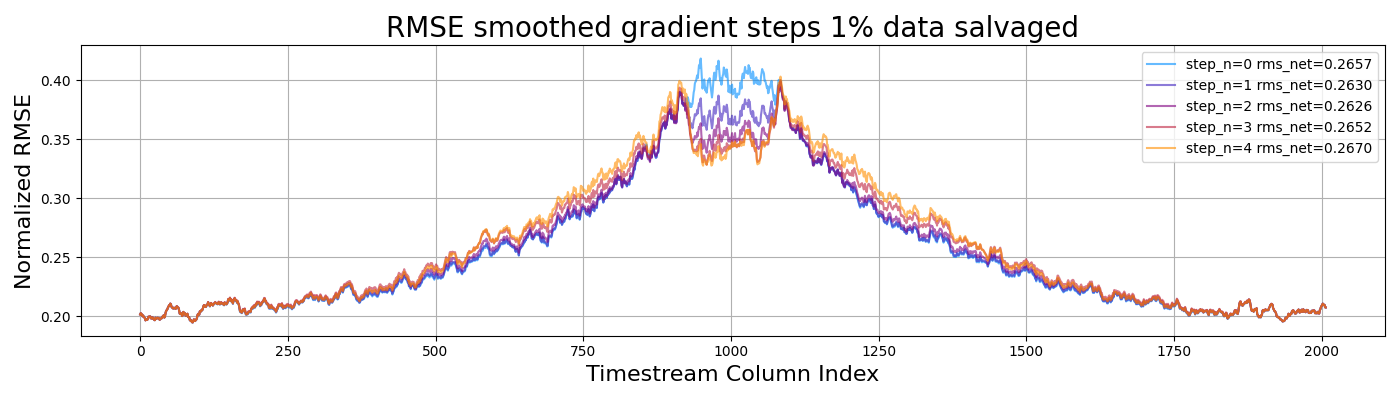
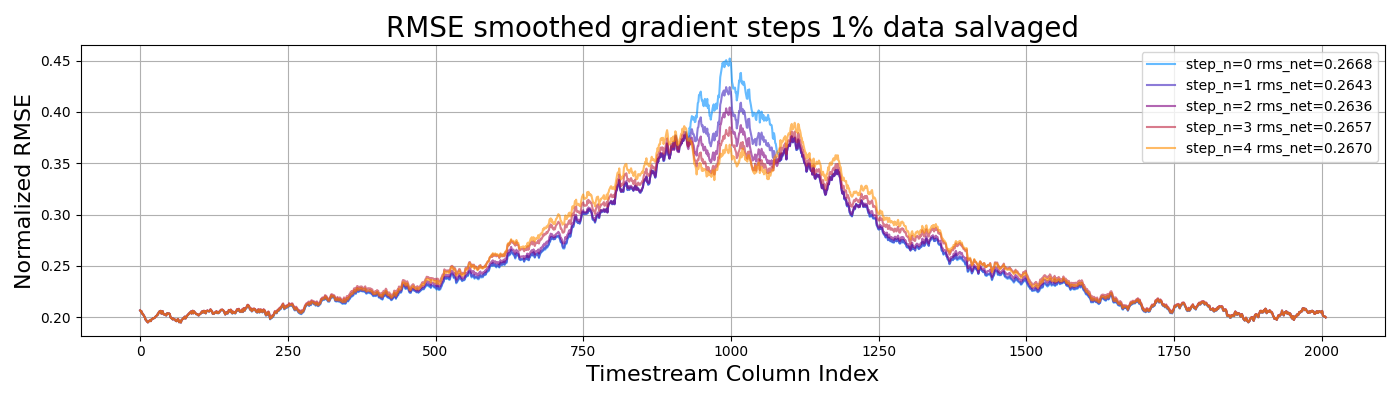
readme and bash script fixed

diff --git a/plots/rmse_wiener_vs_noprior_min_chisq.py b/plots/rmse_wiener_vs_noprior_min_chisq.py
@@ -6,70 +6,11 @@ To see how much a chi-squared minimization improves the Wiener filter
 import sys
 sys.path.append("..")
 import conjugate_gradient as cg
+from matrix_operations import A,A_inv,A_inv_wiener,A_quantize,AT
 import pfb
 import numpy as np
 from numpy.fft import rfft, irfft
 import matplotlib.pyplot as plt
-
-def A(x):
-    """Applies PFB, irfft's that, flatten."""
-    # Forward PFB the Signal
-    b = pfb.forward_pfb(x)
-    # Inverse Fourier Transform along axis=1
-    b = irfft(b)
-    # Apply circulant boundary conditions
-    b = np.concatenate([b, b[:3, :]], axis=0)
-    return b.flatten()
-
-def A_inv(b_flat):
-    """Inverse of A. Reshape the array, rfft, iPFB."""
-    # Sanity check
-    if len(b_flat)/lblock != len(b_flat)//lblock: 
-        raise Exception("Dimensions of input do not match lblock!")
-    # Reshape array so that it looks like irfft'd pfb output dims
-    b = b_flat.reshape((-1,lblock))[:-3,:]
-    # Rfft along axis=1
-    b = rfft(b)
-    return pfb.inverse_pfb(b)
-
-def A_inv_wiener(b_flat, wiener_thresh=0.25):
-    """Inverse of A with wiener filtering. Reshape the array, rfft, iPFB with wiener filter."""
-    # Sanity check
-    if len(b_flat)/lblock != len(b_flat)//lblock: 
-        raise Exception("Dimensions of input do not match lblock!")
-    # Reshape array so that it looks like irfft'd pfb output dims
-    b = b_flat.reshape((-1,lblock))[:-3,:]
-    # Rfft along axis=1
-    b = rfft(b)
-    return pfb.inverse_pfb(b, wiener_thresh=wiener_thresh)
-
-def A_quantize(x, delta):
-    """Takes signal, pfb's it, quantizes, irfft's that."""
-    # Forward PFB the signal
-    b = pfb.forward_pfb(x)
-    # Quantize the filter bank
-    # The sqrt is to account for the next IRFFT step
-    # b = pfb.quantize(b, np.sqrt(2*(b.shape[1] - 1)) * delta) 
-    b = pfb.quantize_8_bit(b, np.sqrt(2*(b.shape[1] - 1)) * delta) 
-    # Inverse Fourier Transform
-    b = irfft(b) # Same as apply along axis=1
-    # Apply circulant boundary conditions
-    b = np.concatenate([b, b[:3, :]], axis=0)
-    return b.flatten() 
-
-def R(x):
-    """Re-ordering matrix (involution)."""
-    lx = len(x)
-    if lx/lblock != lx//lblock: 
-        raise Exception("Len x must divide lblock.")
-    k = lx // lblock
-    out = np.zeros(lx)
-    for i in range(k):
-        out[i*lblock:(i+1)*lblock] = x[(k-i-1)*lblock:(k-i)*lblock]
-    return out
-
-def AT(x): # the transpose of A
-    return R(A(R(x)))
 
 
 """Main"""
@@ -90,54 +31,24 @@ d = A_quantize(x,delta)
 # `N_inv` and `Q_inv` are *diagonal* matrices, so we store them as 1D-arrays 
 N_inv = np.ones(len(x)) * 6 / delta**2 
 
-"""5 percent of original data given as prior."""
-_,saved_idxs_5 = cg.get_saved_idxs(5, 0.05, k, lblock)
-# The noise matrix for the prior. 
-prior_5 = np.zeros(len(x)) # What we know about x, information we salvaged. 
-# The data we save will also be 8-bit quantized. 
-prior_5[saved_idxs_5] = pfb.quantize_real(x[saved_idxs_5].copy() , delta) # Quantized original signal. 
 
-Q_inv_5 = np.ones(len(x)) # this is a prior, change to zeros if you want zero for infinite uncertainty
-Q_inv_5[saved_idxs_5] = np.ones(len(saved_idxs_5)) * (12 / delta**2) # 8 bits per real number (finer std because no complex) 
-
-B_5 = lambda ts: AT(N_inv * A(ts)) + Q_inv_5 * ts # think ts===x
-u_5 = AT(N_inv * d) + Q_inv_5 * prior_5 # this is same as mult prior by var=12/delta^2
-
-
-"""3 percent of original data given as prior."""
-_,saved_idxs_3 = cg.get_saved_idxs(6, 0.03, k, lblock)
-# The noise matrix for the prior. 
-prior_3 = np.zeros(len(x)) # What we know about x, information we salvaged. 
-# The data we save will also be 8-bit quantized. 
-prior_3[saved_idxs_3] = pfb.quantize_real(x[saved_idxs_3].copy() , delta) # Quantized original signal. 
-
-Q_inv_3 = np.ones(len(x)) # this is a prior, change to zeros if you want zero for infinite uncertainty
-Q_inv_3[saved_idxs_3] = np.ones(len(saved_idxs_3)) * (12 / delta**2) # 8 bits per real number (finer std because no complex) 
-
-B_3 = lambda ts: AT(N_inv * A(ts)) + Q_inv_3 * ts # think ts===x
-u_3 = AT(N_inv * d) + Q_inv_3 * prior_3 # this is same as mult prior by var=12/delta^2
-
-"""1 percent of original data given as prior."""
-_,saved_idxs_1 = cg.get_saved_idxs(7, 0.01, k, lblock)
-# the noise matrix for the prior
-prior_1 = np.zeros(len(x)) # what we know about x, information we saved
-prior_1[saved_idxs_1] = pfb.quantize_real(x[saved_idxs_1].copy() , delta) # quantized original signal
-
-Q_inv_1 = np.zeros(len(x)) 
-Q_inv_1[saved_idxs_1] = np.ones(len(saved_idxs_1)) * 12 / delta**2 # 8 bits per real number
-
-B_1 = lambda ts: AT(N_inv * A(ts)) + Q_inv_1 * ts # think ts===x
-u_1 = AT(N_inv * d) + Q_inv_1 * prior_1
+"""Construct the chi-square minimization linear operator"""
+B = lambda ts: AT(N_inv * A(ts)) 
+u = AT(N_inv * d) 
 
 """Optimize CHI squared using conjugate gradient method."""
 # x0 is the standard IPFB reconstruction
 x0 = np.real(A_inv(d))
 x0_wiener = np.real(A_inv_wiener(d, 0.25)) # Weiner threshold 0.25
 
-# print("\n\nd={}".format(d)) # trace, they are indeed real
-# print("\n\nx_0={}".format(x0)) # complex dtype but zero imag componant
+# RMS conj gradient descent, optimal x
+x_opt = cg.conjugate_gradient_descent(B, u, x0=x0_wiener, rmin=0.0, 
+        max_iter=5, k=k, lblock=lblock, verbose=True, x_true=x, 
+        title="RMSE smoothed gradient steps, no data salvaged",
+        saveas="img/RMSE_conjugate_gradient_descent_0percent.png")        
+ 
 
-# print("\nConjugate Gradient Descent, with 3% extra data (prior is a quantized 3% of original timestream)")
+"""Plot and compare result"""
 plt.figure(figsize=(14,4))
 
 # rms virgin pfb
@@ -155,37 +66,24 @@ rms_net_wiener = np.sqrt(np.mean(rms_wiener))
 rms_wiener = np.sqrt(np.mean(rms_wiener,axis=0))
 plt.semilogy(rms_wiener[5:-5],label="rmse wiener filtered",color=colors[1]) 
 
+# rms chisq optimized
+rms_opt = (x - x_opt)**2
+rms_opt = np.reshape(rms_opt[5*lblock:-5*lblock],(k-10,lblock))
+rms_net_opt = np.sqrt(np.mean(rms_opt))
+rms_opt = np.sqrt(np.mean(rms_wiener,axis=0))
+plt.semilogy(rms_opt[5:,-5],label="rmse optimized",color=colors[2])
+
+# Plot params
 plt.grid(which="both") 
 plt.legend()
-#plt.title("Log IPFB RMS residuals (smoothed)\nrmse virgin = {:.3f} rmse wiener = {:.3f}".format(rms_net_virgin,rms_net_wiener),fontsize=20) 
 plt.title("IPFB Root Mean Squared residuals (smoothed)",fontsize=20)
-#plt.xlabel("Channel #",fontsize=13)
 plt.ylabel("RMSE",fontsize=16)
 plt.xlabel("Timestream Column Index",fontsize=16)
 plt.tight_layout()
-plt.savefig("img/RMSE_log_virgin_IPFB_residuals_wiener.png")
+plt.savefig("img/RMSE_log_IPFB_residuals_wiener_vs_optimized.png")
 plt.show()
 
-cmap="YlGn" #"RdYlBu" # diverging colorblind photocopy colormap
-# RMS conj gradient descent
-x_out_5 = cg.conjugate_gradient_descent(B_5, u_5, x0=x0_wiener, rmin=0.0, 
-        max_iter=15, k=k, lblock=lblock, verbose=True, x_true=x, 
-        title="RMSE smoothed gradient steps 5% data salvaged",
-        saveas="img/RMSE_conjugate_gradient_descent_5percent.png",
-        cmap=cmap)
-# RMS conj gradient descent
-x_out_3 = cg.conjugate_gradient_descent(B_3, u_3, x0=x0_wiener, rmin=0.0, 
-        max_iter=10, k=k, lblock=lblock, verbose=True, x_true=x, 
-        title="RMSE smoothed gradient steps 3% data salvaged",
-        saveas="img/RMSE_conjugate_gradient_descent_3percent.png",
-        cmap=cmap)
-# RMS conj gradient descent
-x_out_1 = cg.conjugate_gradient_descent(B_1, u_1, x0=x0_wiener, rmin=0.0, 
-        max_iter=5, k=k, lblock=lblock, verbose=True, x_true=x, 
-        title="RMSE smoothed gradient steps 1% data salvaged",
-        saveas="img/RMSE_conjugate_gradient_descent_1percent.png",
-        cmap=cmap)        
-    
+   
 
 
 

diff --git a/README.md b/README.md
@@ -3,11 +3,14 @@ Modifying the Polyphase Filter Bank to make it robust to quantization effects
 
 The polyphase filter bank (PFB) is a widely used digital signal processing tool used for channelizing input from radio telescopes. Quantization of the channelized signal leads to blow ups in error. We present a practical method for inverting the PFB with minimal quantization-induced error that requires as little as 3\% extra bandwidth.
 
-[Link to the long write-up](https://www.overleaf.com/1895914395bjkqwzjzgkrp) 
-[Link to the article]() 
+## Outline of code
+`pfb.py` contains fuctions to perform the forward and inverse PFB, and methods to quantize the inverse.
+`helper.py` utility functions used to analyzing the quantization errors induced in the quantized iPFB. 
+`conjugate_gradient.py` contains functions to optimize the chi-squared value of the iPFB. 
+`matrix_operations` is a helper that wraps PFB related operations in a way that makes them look like the linear operators that they really are. These are used in conjugate gradient descent algorithm. 
+`optimal_wiener_thresh.py` finds the optimal Wiener threshold parameter. 
+`plots/plotall.sh` generates all the relevant plots. 
 
-## Questions
-- What is the Weiner filtering doing? Is it just the same thing as setting gausian noise as the prior and then minimizing a chi-squared based on that prior? If so, when the data is completely garbled it doesn't actually help us much... Investigate
 
 ## Dependencies / libraries used in scritps:
 - Jax, for autograd custom gradient descent functions
@@ -16,15 +19,6 @@ The usual suspects
 - Numpy
 - Scipy (``scipy.signal``, ``scopy.fft``, ``scipy.optimize``)
 - Matplotlib
-
-## Todo
-- [x] For each vital plot, find + manicure the script that generates it and link it in the caption
-- [ ] For other plots, find + manicure the script that generates it and link it in the caption
-- [ ] Write succinct article, skip derivations, present results cleanly and put derivatinos in the appendix. 
-
-
-Less urgent todo
-- [ ] Refactor `helper.py` and `constants` to make them simpler (only on the main branch.) 
 
 
 
